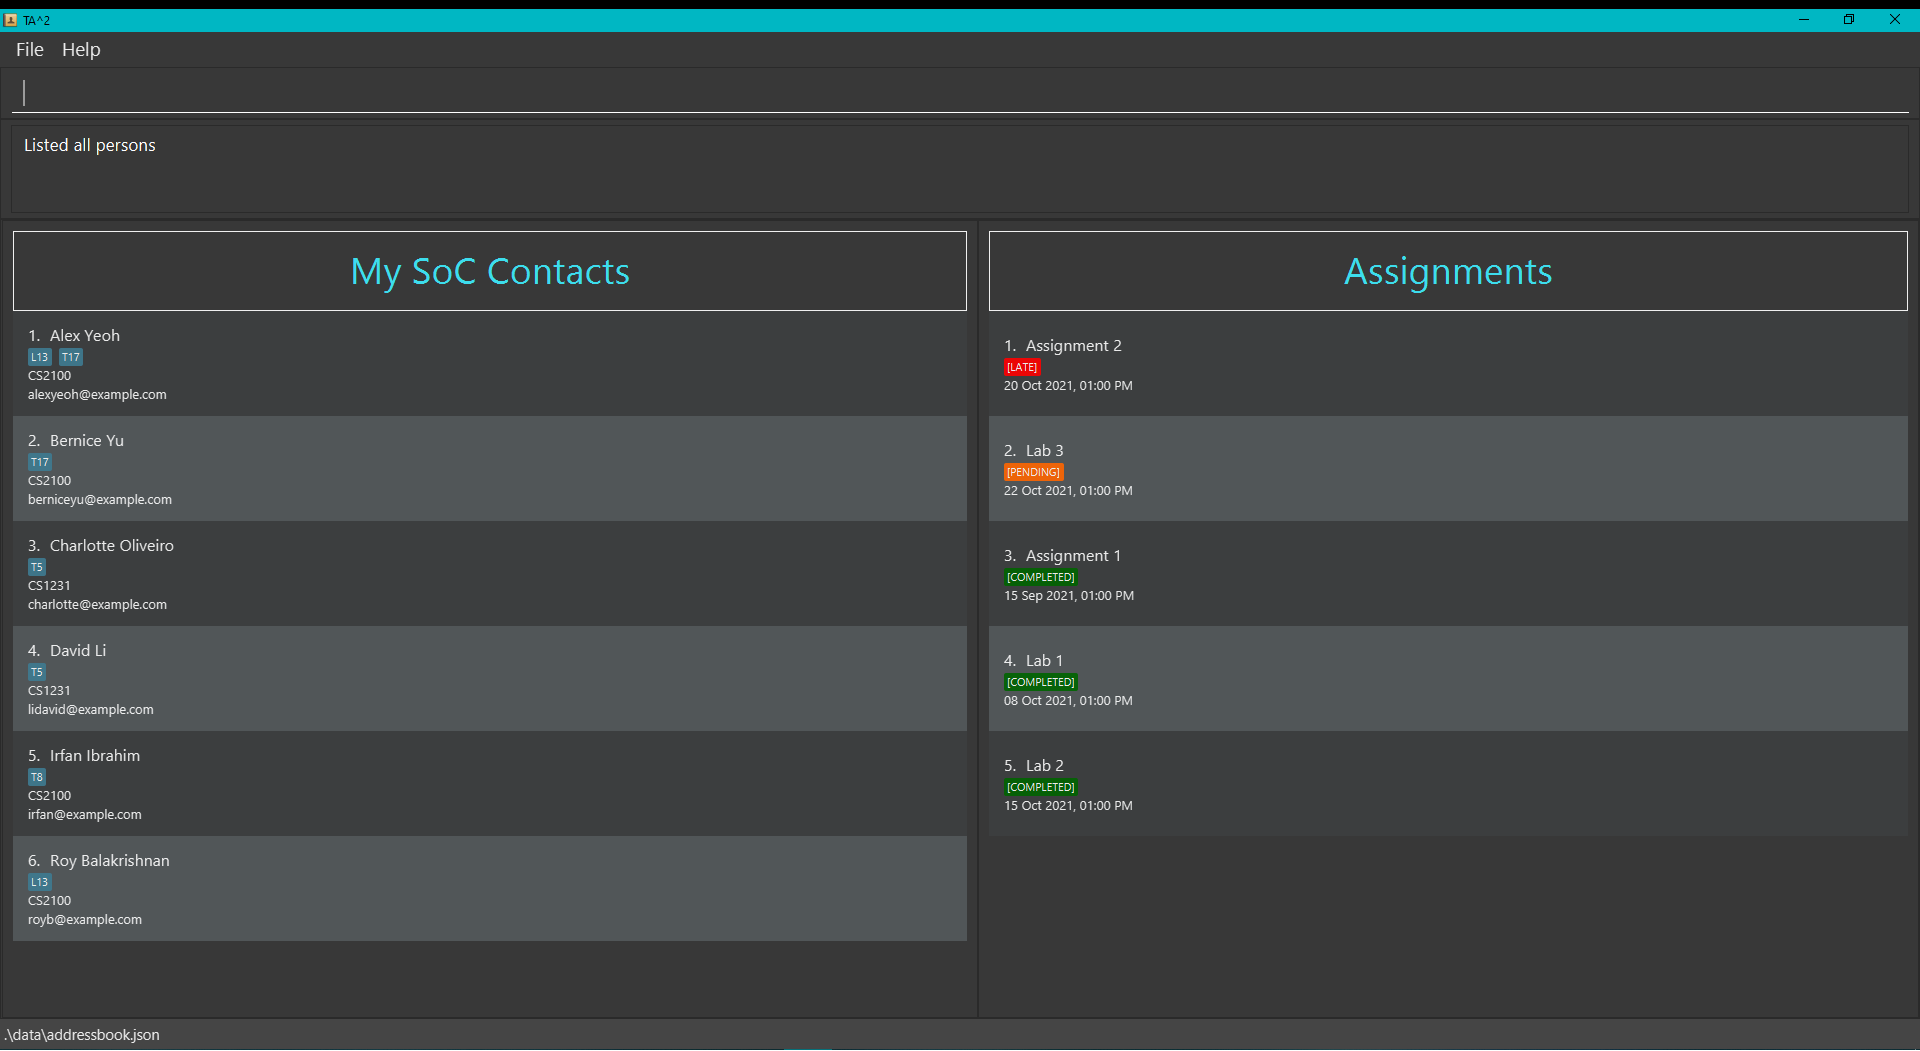
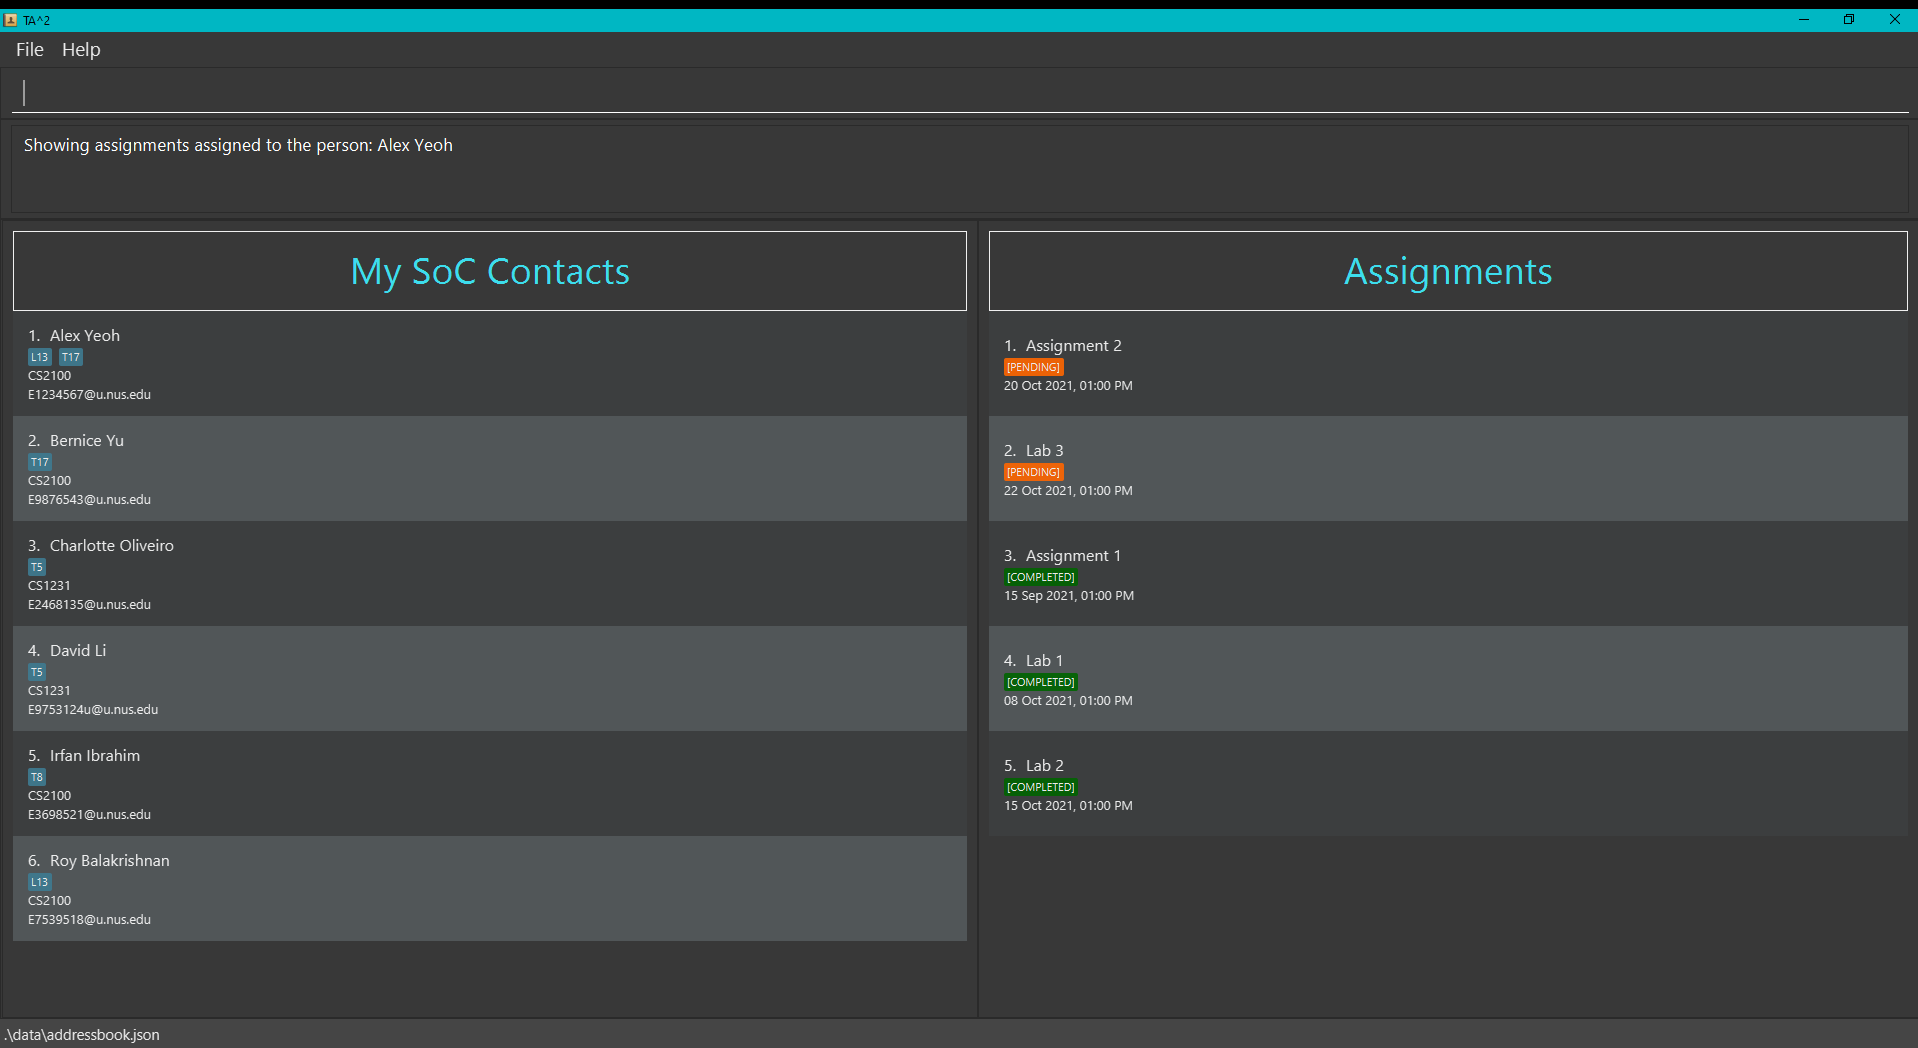
Update screenshots

diff --git a/src/main/java/seedu/address/model/util/SampleDataUtil.java b/src/main/java/seedu/address/model/util/SampleDataUtil.java
@@ -20,35 +20,35 @@ import seedu.address.model.tag.Tag;
 public class SampleDataUtil {
     public static Person[] getSamplePersons() {
         return new Person[] {
-            new Person(new Name("Alex Yeoh"), new Email("alexyeoh@example.com"),
+            new Person(new Name("Alex Yeoh"), new Email("E1234567@u.nus.edu"),
                 new Module("CS2100"),
                 getAssignmentList(new String[] {"Assignment 1", "15 Sep 2021, 01:00 PM", "COMPLETED"},
-                                  new String[] {"Assignment 2", "20 Oct 2021, 01:00 PM", "LATE"},
+                                  new String[] {"Assignment 2", "20 Oct 2021, 01:00 PM", "PENDING"},
                                   new String[] {"Lab 1", "08 Oct 2021, 01:00 PM", "COMPLETED"},
                                   new String[] {"Lab 2", "15 Oct 2021, 01:00 PM", "COMPLETED"},
                                   new String[] {"Lab 3", "22 Oct 2021, 01:00 PM", "PENDING"}),
                 getTagSet("T17", "L13")),
-            new Person(new Name("Bernice Yu"), new Email("berniceyu@example.com"),
+            new Person(new Name("Bernice Yu"), new Email("E9876543@u.nus.edu"),
                 new Module("CS2100"),
                 getAssignmentList(new String[] {"Assignment 1", "15 Sep 2021, 01:00 PM", "COMPLETED"},
                                   new String[] {"Assignment 2", "20 Oct 2021, 01:00 PM", "COMPLETED"}),
                 getTagSet("T17")),
-            new Person(new Name("Charlotte Oliveiro"), new Email("charlotte@example.com"),
+            new Person(new Name("Charlotte Oliveiro"), new Email("E2468135@u.nus.edu"),
                 new Module("CS1231"),
                 getAssignmentList(new String[] {"Assignment 1", "13 Sep 2021, 11:59 PM", "COMPLETED"},
-                                  new String[] {"Assignment 2", "19 Oct 2021, 11:59 PM", "LATE"}),
+                                  new String[] {"Assignment 2", "19 Oct 2021, 11:59 PM", "PENDING"}),
                 getTagSet("T5")),
-            new Person(new Name("David Li"), new Email("lidavid@example.com"),
+            new Person(new Name("David Li"), new Email("E9753124u@u.nus.edu"),
                 new Module("CS1231"),
                 getAssignmentList(new String[] {"Assignment 1", "13 Sep 2021, 11:59 PM", "COMPLETED"},
                                   new String[] {"Assignment 2", "19 Oct 2021, 11:59 PM", "COMPLETED"}),
                 getTagSet("T5")),
-            new Person(new Name("Irfan Ibrahim"), new Email("irfan@example.com"),
+            new Person(new Name("Irfan Ibrahim"), new Email("E3698521@u.nus.edu"),
                 new Module("CS2100"),
                 getAssignmentList(new String[] {"Assignment 1", "15 Sep 2021, 01:00 PM", "COMPLETED"},
                                   new String[] {"Assignment 2", "20 Oct 2021, 01:00 PM", "COMPLETED"}),
                 getTagSet("T8")),
-            new Person(new Name("Roy Balakrishnan"), new Email("royb@example.com"),
+            new Person(new Name("Roy Balakrishnan"), new Email("E7539518@u.nus.edu"),
                 new Module("CS2100"),
                 getAssignmentList(new String[] {"Lab 1", "08 Oct 2021, 01:00 PM", "COMPLETED"},
                                   new String[] {"Lab 2", "15 Oct 2021, 01:00 PM", "COMPLETED"},
